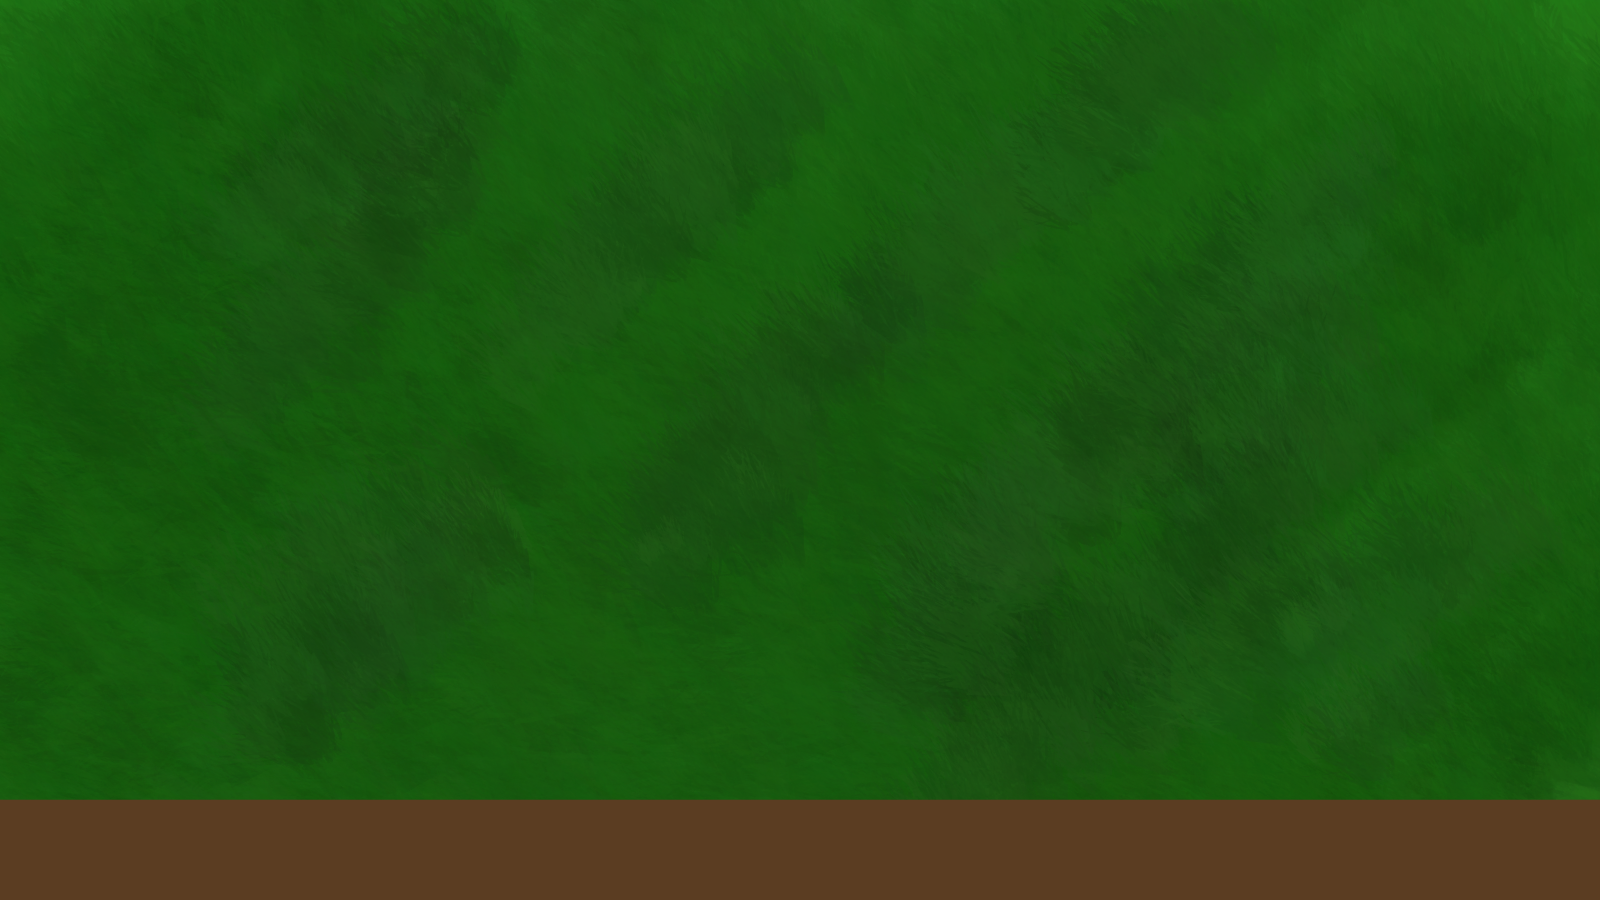
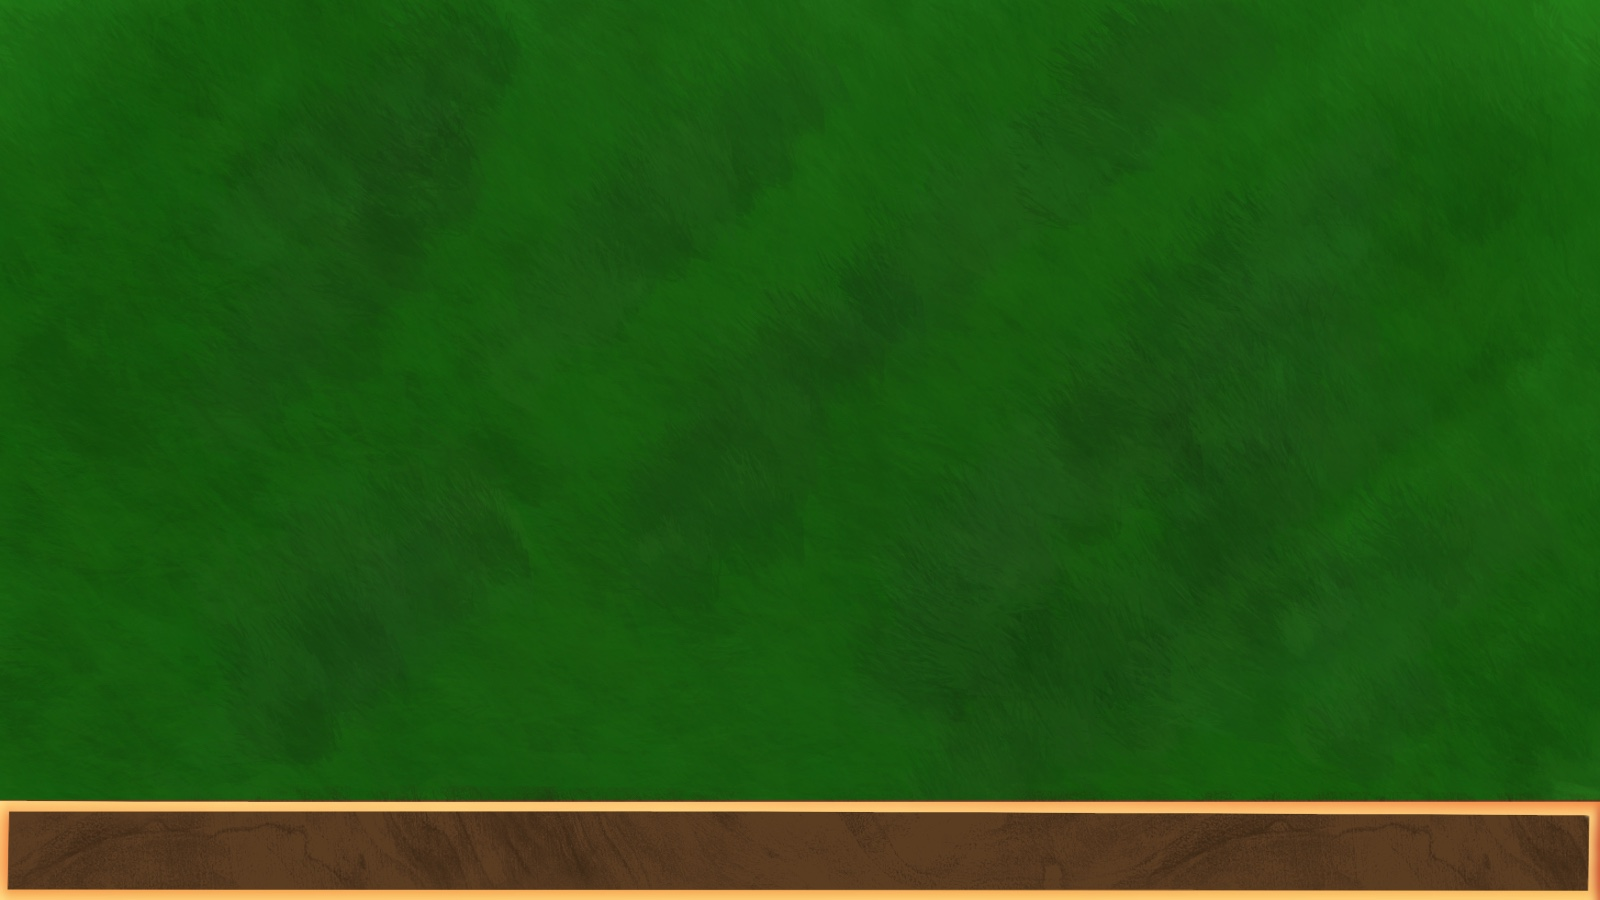
20. 3. 2023 -Changed level 3 to level 2 and removed level 2 -Added border for shop

Changed region(s): [[0.0, 0.8711, 1.0, 1.0]]

diff --git a/Level_2.java b/Level_2.java
@@ -1,7 +1,7 @@
 import greenfoot.*;  // (World, Actor, GreenfootImage, Greenfoot and MouseInfo)
 
 public class Level_2 extends Level {
-    private Path[] paths = new Path[41];
+    private Path[] paths = new Path[37];
 
     public Level_2() {
         super();
@@ -16,55 +16,49 @@ public class Level_2 extends Level {
     }
 
     public void generateLevel() {
-        for (int i = 0; i < 2; i++) {
+        for (int i = 0; i < 4; i++) {
             paths[i] = new Path();
-            addObject(paths[i], i*100+50, 150);
+            addObject(paths[i], 550, i*100+50);
         }
         
-        for (int i = 2; i < 7; i++) {
+        for (int i = 4; i < 8; i++) {
             paths[i] = new Path();
-            addObject(paths[i], 150, i*100+50);
+            addObject(paths[i], (8-i)*100+50, 350);
         }
         
-        for (int i = 7; i < 11; i++) {
+        for (int i = 8; i < 10; i++) {
             paths[i] = new Path();
-            addObject(paths[i], (i-5)*100+50, 650);
+            addObject(paths[i], 150, (i-7)*100+50);
         }
         
-        for (int i = 11; i < 16; i++) {
+        for (int i = 10; i < 13; i++) {
             paths[i] = new Path();
-            addObject(paths[i], 550, (16-i)*100+50);
+            addObject(paths[i], (i-8)*100+50, 150);
         }
         
-        for (int i = 16; i < 24; i++) {
+        for (int i = 13; i < 20; i++) {
             paths[i] = new Path();
-            addObject(paths[i], (i-9)*100-50, 150);
+            addObject(paths[i], (i-7)*100+50, 150);
         }
         
-        for (int i = 24; i < 27; i++) {
+        for (int i = 20; i < 24; i++) {
             paths[i] = new Path();
-            addObject(paths[i], 1350, (i-22)*100+50);
+            addObject(paths[i], 1250, (i-18)*100+50);
         }
         
-        for (int i = 27; i < 32; i++) {
+        for (int i = 24; i < 28; i++) {
             paths[i] = new Path();
-            addObject(paths[i], (39-i)*100+50, 450);
+            addObject(paths[i], (35-i)*100+50, 550);
         }
         
-        for (int i = 32; i < 34; i++) {
+        for (int i = 28; i < 37; i++) {
             paths[i] = new Path();
-            addObject(paths[i], 850, (i-27)*100+50);
+            addObject(paths[i], (36-i)*100+50, 650);
         }
         
-        for (int i = 34; i < 41; i++) {
-            paths[i] = new Path();
-            addObject(paths[i], (i-25)*100+50, 650);
-        }
+        addObject(start, 550, 0);
         
-        addObject(start, 0, 150);
-        start.setRotation(270);
-        
-        addObject(finish, 1599, 650);
+        addObject(finish, 0, 650);
         finish.setRotation(90);
     }
 }

diff --git a/Tank.java b/Tank.java
@@ -3,7 +3,7 @@ import greenfoot.*;  // (World, Actor, GreenfootImage, Greenfoot and MouseInfo)
 public class Tank extends Enemy {
     public Tank() {
         //config
-        health = 20;
+        health = 5;
         damage = 2;
         enemyName = "Enemy-2";
     }

diff --git a/Monster_Spawner.java b/Monster_Spawner.java
@@ -33,7 +33,7 @@ public class Monster_Spawner extends Actor {
     
     public void waveGeneration(int waveNumber) {
         switch(waveNumber){
-            case 1: spawnTank(500, 10); break;
+            case 1: spawnTank(15, 100); break;
         }
     }
     

diff --git a/Tripleshot_Tower.java b/Tripleshot_Tower.java
@@ -4,7 +4,7 @@ public class Tripleshot_Tower extends Towers {
     public Tripleshot_Tower() {
         //config
         range = 300;
-        reloadTime = 1;
+        reloadTime = 50;
         damage = 1;
     }
     
